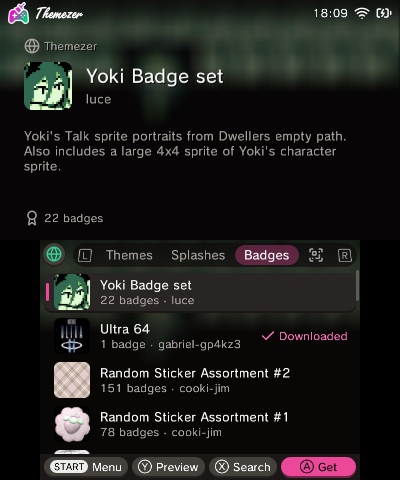
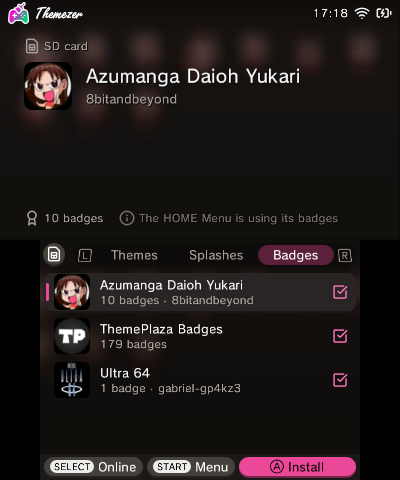
Take the README's screenshots on the SD card's themes, splash screens and badges

diff --git a/README.md b/README.md
@@ -6,8 +6,8 @@ straight away: browse and search them, scan an item's QR code, or type its ID.
 
 <p>
   <img src="docs/screenshots/themes.png" width="32%" alt="The themes on the SD card">
-  <img src="docs/screenshots/splashes.png" width="32%" alt="Splash screens on Themezer">
-  <img src="docs/screenshots/badges.png" width="32%" alt="Badges on Themezer">
+  <img src="docs/screenshots/splashes.png" width="32%" alt="The splash screens on the SD card">
+  <img src="docs/screenshots/badges.png" width="32%" alt="The badge sets on the SD card">
 </p>
 
 Themezer-3DS is written from scratch, inspired by [Anemone3DS](https://github.com/astronautlevel2/Anemone3DS).
